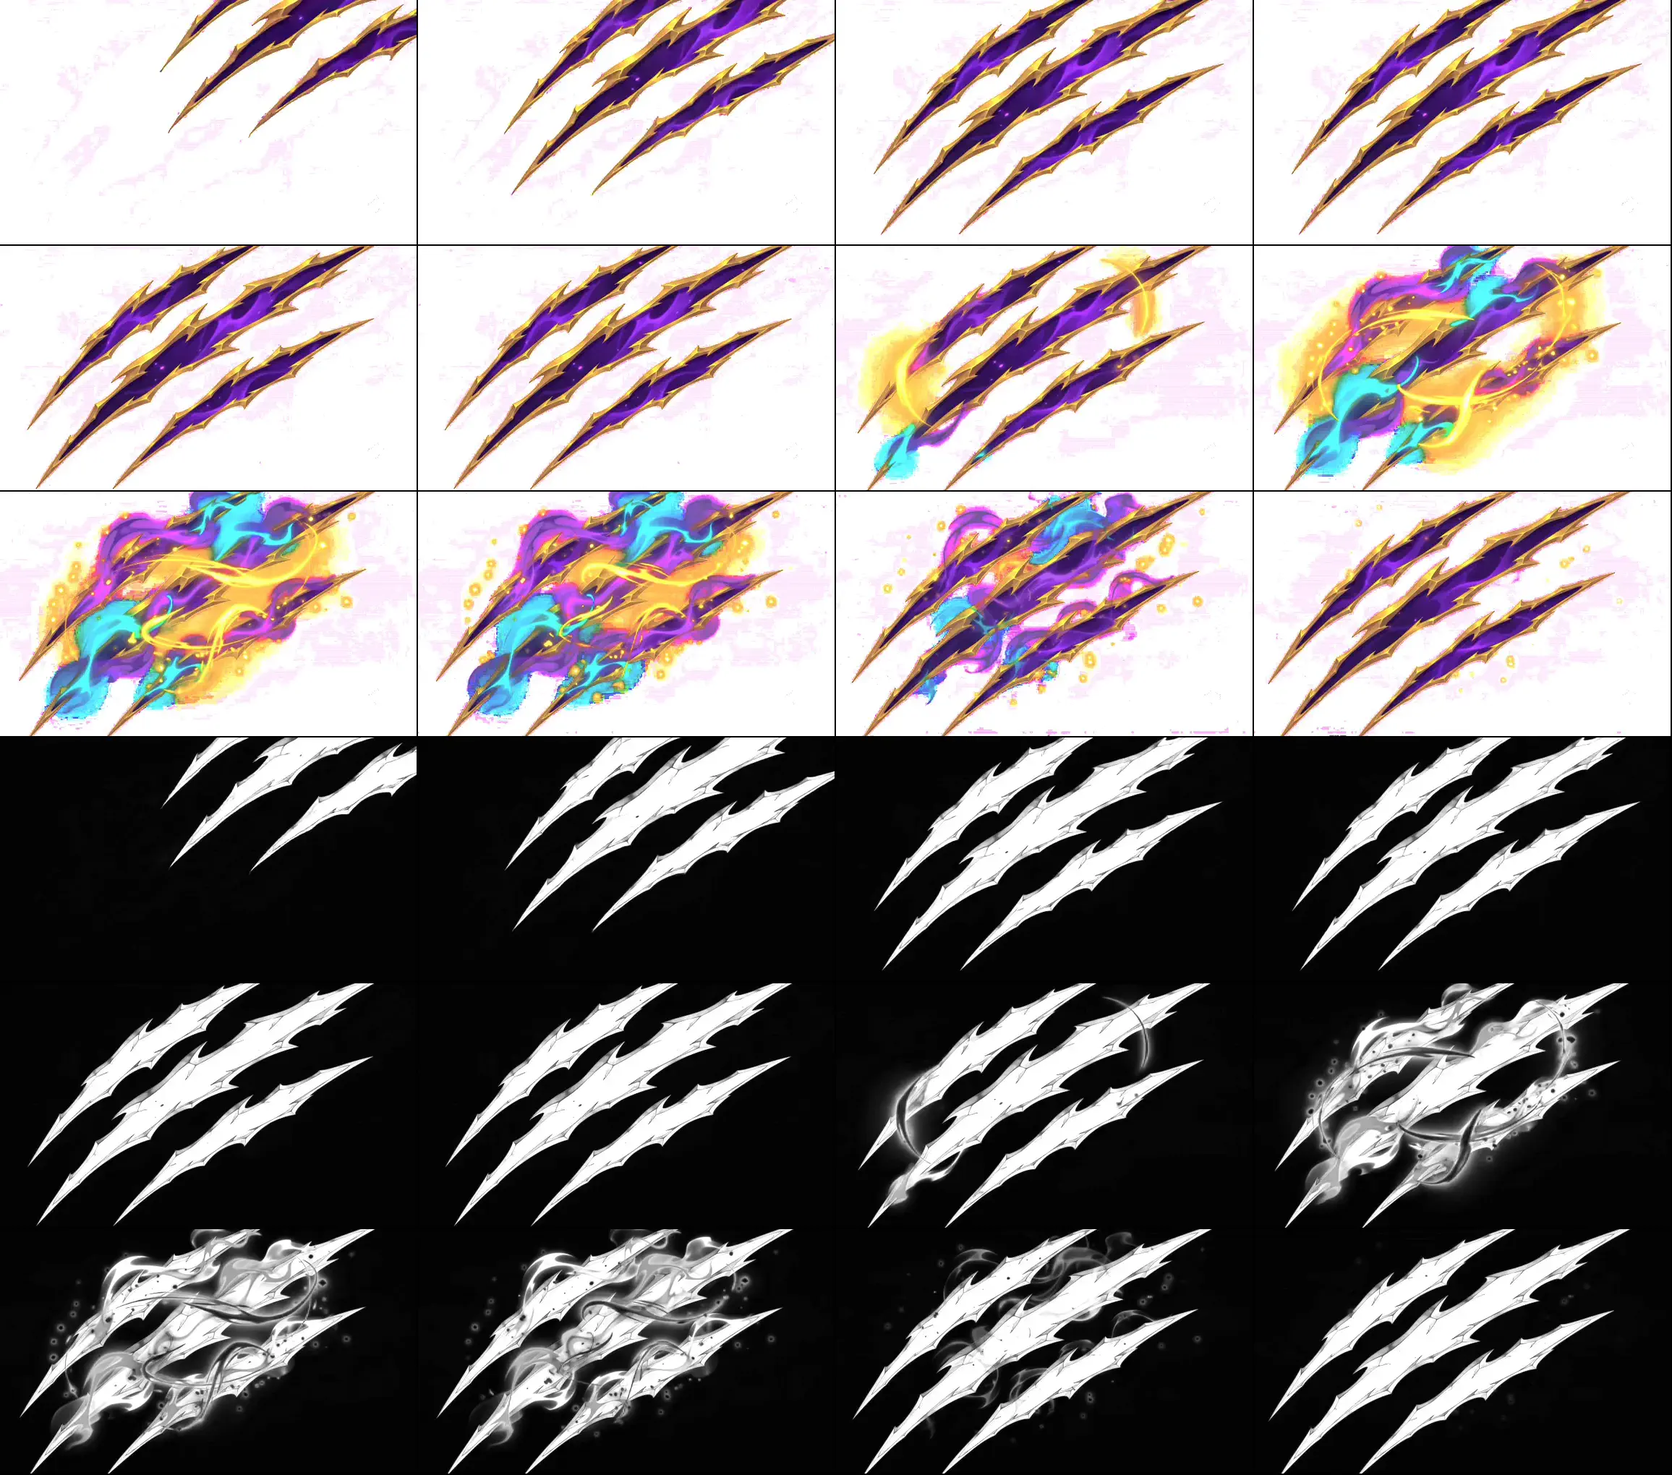
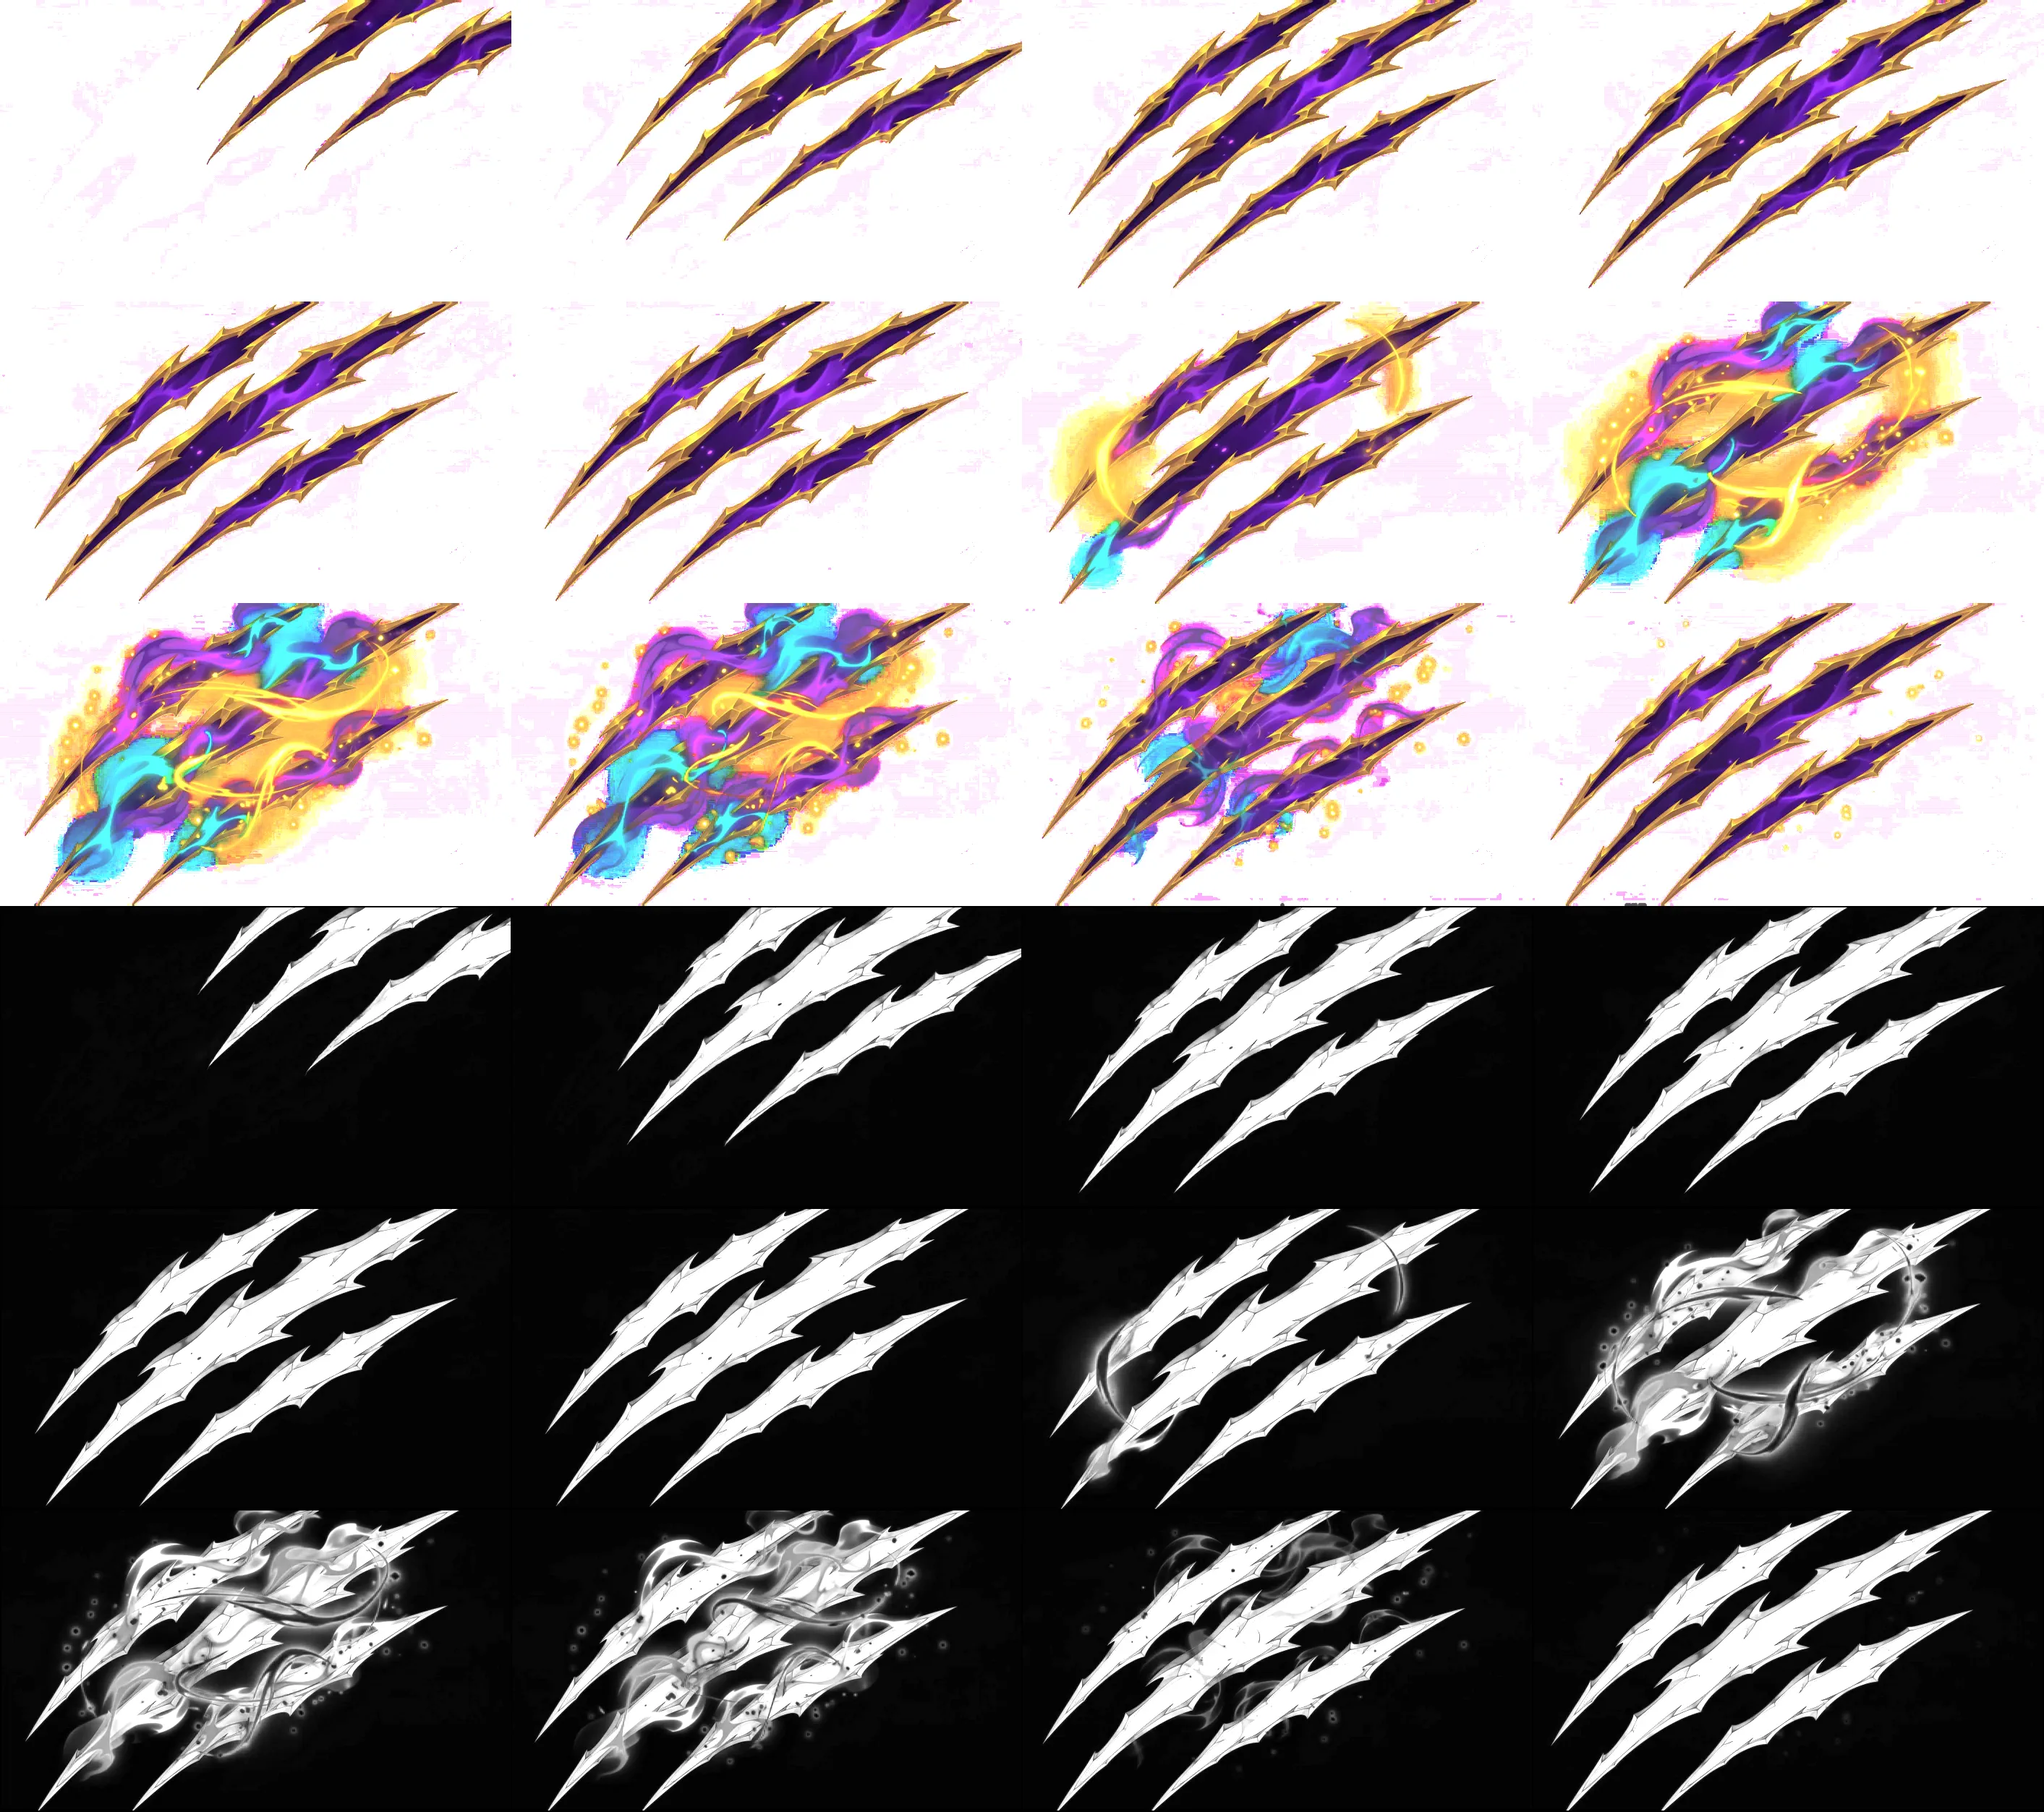
fix(fx): the phone renders at its own pixels, and the claw sheet can carry them
The renderer was capped at 2x while every current phone is 3x, so the whole
canvas was drawn short and stretched back up by the compositor — soft
everywhere, worst on the painted sheets. The pixel budget it is really bounded
by, 2.6 MPx, was never reached on a phone and is untouched; a tablet has been
rendering that many pixels all along.

At the phone's own ratio the claw sheet became the limit, so it is repacked from
the master at 704px cells instead of 577, which is 1.6x across the draw instead
of 2x. The bundle pays 0.42 MB for it.

The outcome figure now falls back to its still when the clip does not roll. On
a phone the second defeat came up empty: the clip exists, so the still was
suppressed, but the video never started and nothing was drawn. The clip gets
600ms to advance a frame, and if it has not, that side plays as the still for
the rest of the session. play() also always calls play now, rather than only
from a seeked handler that a phone may never fire.

diff --git a/src/art/figures.js b/src/art/figures.js
@@ -50,8 +50,10 @@ export async function loadOutcomeFigures() {
   return stills;
 }
 
+const side = (defeat) => (defeat ? "defeat" : "victory");
+
 function figureTexture(defeat) {
-  return stills[defeat ? "defeat" : "victory"];
+  return stills[side(defeat)];
 }
 
 export function rewindFigures() {
@@ -60,6 +62,8 @@ export function rewindFigures() {
     if (clip) clip.rewind();
   }
 }
+
+const ROLL_GRACE = 600;
 
 export class FigureView extends Container {
   constructor() {
@@ -72,6 +76,8 @@ export class FigureView extends Container {
     this.addChild(this.still);
     this.clip = null;
     this.span = 0;
+    this.grounded = { victory: false, defeat: false };
+    this.watch = 0;
   }
 
   adopt() {
@@ -85,7 +91,7 @@ export class FigureView extends Container {
 
   pick(defeat) {
     this.adopt();
-    return clips[defeat ? "defeat" : "victory"] || null;
+    return clips[side(defeat)] || null;
   }
 
   has(defeat) {
@@ -94,7 +100,7 @@ export class FigureView extends Container {
 
   fit(defeat, span) {
     this.span = span;
-    const clip = this.pick(defeat);
+    const clip = this.grounded[side(defeat)] ? null : this.pick(defeat);
     const texture = clip ? null : figureTexture(defeat);
 
     if (this.clip && this.clip !== clip) {
@@ -119,11 +125,34 @@ export class FigureView extends Container {
   }
 
   start(defeat) {
-    const clip = this.pick(defeat);
-    if (clip) clip.play();
+    const clip = this.clip;
+    if (!clip) return;
+    clip.play();
+
+    const video = clip.video;
+    const from = video.currentTime;
+    clearTimeout(this.watch);
+    this.watch = setTimeout(() => {
+      if (this.clip !== clip) return;
+      if (!video.paused && video.currentTime > from + 0.02) return;
+      this.ground(defeat);
+    }, ROLL_GRACE);
+  }
+
+  ground(defeat) {
+    if (!figureTexture(defeat)) return;
+    this.grounded[side(defeat)] = true;
+    if (this.clip) {
+      this.clip.stop();
+      this.clip.visible = false;
+      this.clip = null;
+    }
+    this.fit(defeat, this.span);
   }
 
   reset() {
+    clearTimeout(this.watch);
+    this.watch = 0;
     if (this.clip) this.clip.rewind();
   }
 }

diff --git a/src/art/alphavideo.js b/src/art/alphavideo.js
@@ -128,19 +128,16 @@ class AlphaClip extends Mesh {
     };
 
     try {
-      if (video.currentTime <= 0.01) {
-        roll();
-        return;
+      if (video.currentTime > 0.01) {
+        const seeked = () => {
+          video.removeEventListener("seeked", seeked);
+          roll();
+        };
+        video.addEventListener("seeked", seeked);
+        video.currentTime = 0;
       }
-      const seeked = () => {
-        video.removeEventListener("seeked", seeked);
-        roll();
-      };
-      video.addEventListener("seeked", seeked);
-      video.currentTime = 0;
-    } catch {
-      roll();
-    }
+    } catch {}
+    roll();
   }
 
   stop() {

diff --git a/src/art/rake.js b/src/art/rake.js
@@ -4,11 +4,11 @@ import rakeUrl from "../assets/fx/claw-rake.webp";
 
 const SHEET = {
   cols: 4,
-  cellW: 577,
-  cellH: 339,
-  pad: 1,
+  cellW: 704,
+  cellH: 415,
+  pad: 2,
   count: 12,
-  block: 1020,
+  block: 1253,
 };
 
 const FRAME_HOLD = [1, 1, 1, 1, 1, 1, 2.6, 2.6, 2.6, 2.6, 4, 4];

diff --git a/src/core/viewport.js b/src/core/viewport.js
@@ -3,7 +3,7 @@ const SETTLE_FRAMES = 3;
 
 const PIXEL_BUDGET = 2.6e6;
 const MIN_DPR = 1;
-const MAX_DPR = 2;
+const MAX_DPR = 3;
 
 const clamp = (v, lo, hi) => (v < lo ? lo : v > hi ? hi : v);
 
